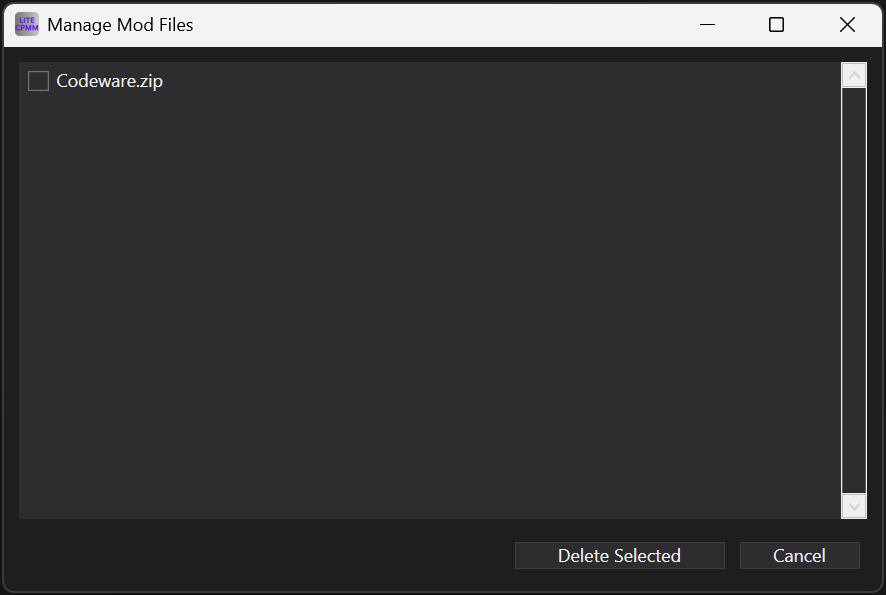
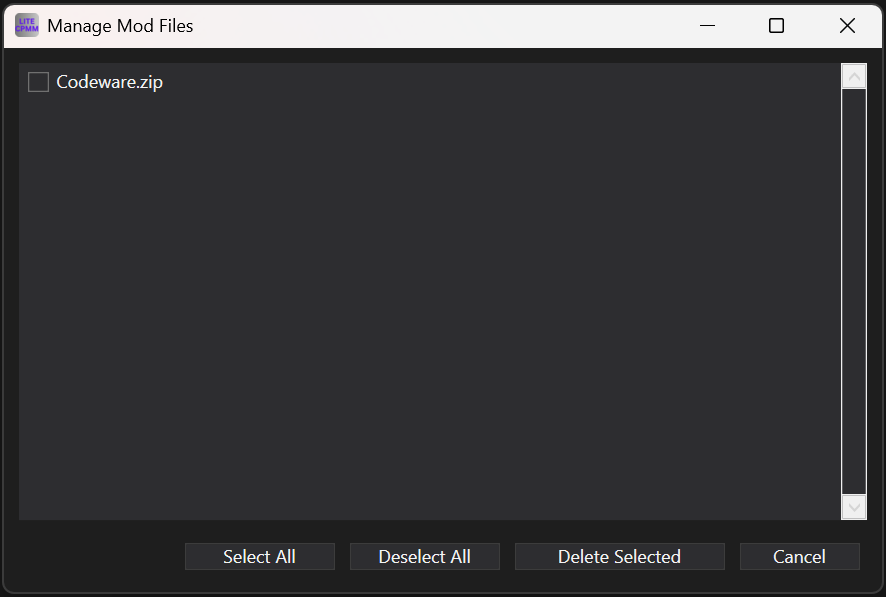
multiple selection mod file manage

diff --git a/LiteCyberpunkModManager/Views/ModListView.xaml b/LiteCyberpunkModManager/Views/ModListView.xaml
@@ -55,6 +55,7 @@
 
         <ListView Grid.Row="1"
           Name="ModsListView"
+          SelectionMode="Extended"
           ItemsSource="{Binding ModsGrouped}"
           Margin="0,5,0,5"
           MouseDoubleClick="ModsListView_MouseDoubleClick"

diff --git a/LiteCyberpunkModManager/Views/ModListView.xaml.cs b/LiteCyberpunkModManager/Views/ModListView.xaml.cs
@@ -163,24 +163,30 @@ namespace LiteCyberpunkModManager.Views
                 return;
             }
 
-            List<string> filePaths = new();
-            ModDisplay? selectedMod = null;
+            var selectedMods = ModsListView.SelectedItems.Cast<ModDisplay>().ToList();
 
-            if (ModsListView.SelectedItem is ModDisplay selected)
+            List<string> filePaths;
+            List<int> selectedModIds;
+
+            if (selectedMods.Count > 0)
             {
-                selectedMod = selected;
-                var modEntries = metadataList.Where(m => m.ModId == selectedMod.ModId).ToList();
-                if (modEntries.Count == 0)
+                // Get all mod entries for selected mods
+                selectedModIds = selectedMods.Select(m => m.ModId).ToList();
+                var selectedEntries = metadataList.Where(m => selectedModIds.Contains(m.ModId)).ToList();
+
+                if (selectedEntries.Count == 0)
                 {
-                    MessageBox.Show("No downloaded files found for this mod.", "No Files", MessageBoxButton.OK, MessageBoxImage.Information);
+                    MessageBox.Show("No downloaded files found for selected mod(s).", "No Files", MessageBoxButton.OK, MessageBoxImage.Information);
                     return;
                 }
 
-                filePaths = GetPathsForEntries(modEntries);
+                filePaths = GetPathsForEntries(selectedEntries);
             }
             else
             {
+                // Show all installed files
                 filePaths = GetPathsForEntries(metadataList);
+                selectedModIds = new List<int>(); // none
                 if (filePaths.Count == 0)
                 {
                     MessageBox.Show("No downloaded files found.", "No Files", MessageBoxButton.OK, MessageBoxImage.Information);
@@ -237,8 +243,10 @@ namespace LiteCyberpunkModManager.Views
 
                 MessageBox.Show(summary, "Files Deleted", MessageBoxButton.OK, MessageBoxImage.Information);
 
-                if (selectedMod != null)
-                    await _viewModel.UpdateModStatusAsync(selectedMod.ModId);
+                foreach (var modId in selectedModIds)
+                {
+                    await _viewModel.UpdateModStatusAsync(modId);
+                }
 
                 if (Application.Current.MainWindow is MainWindow mainWindow &&
                     mainWindow.FindName("FilesTabContent") is ContentControl filesTab &&
